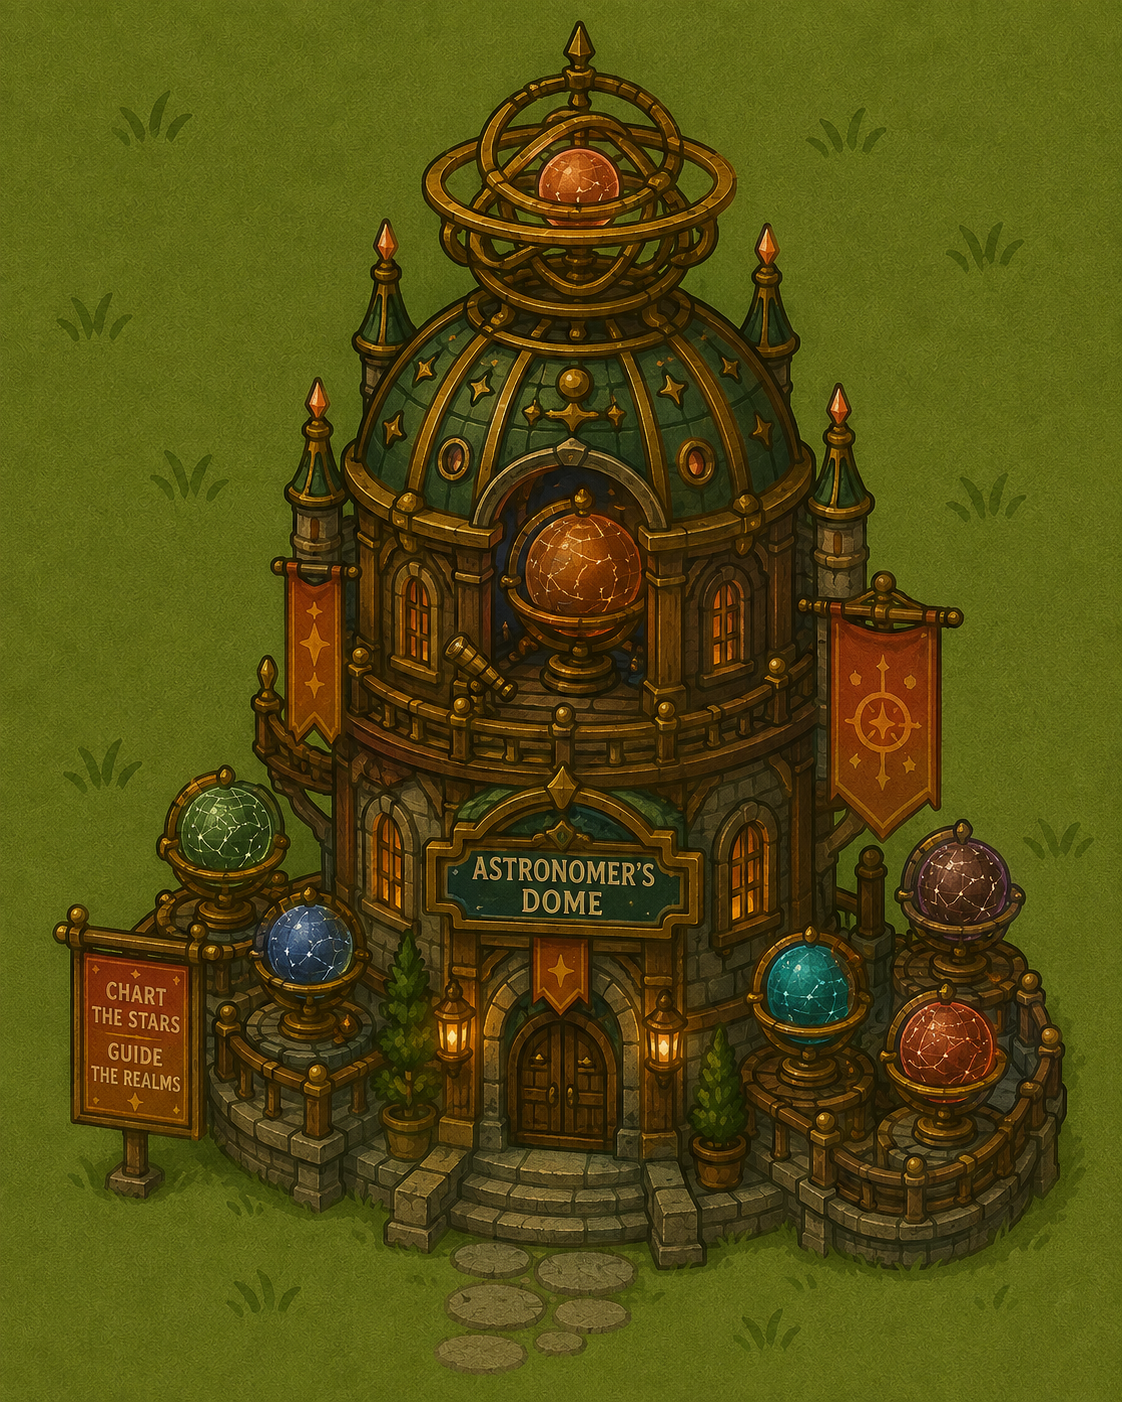
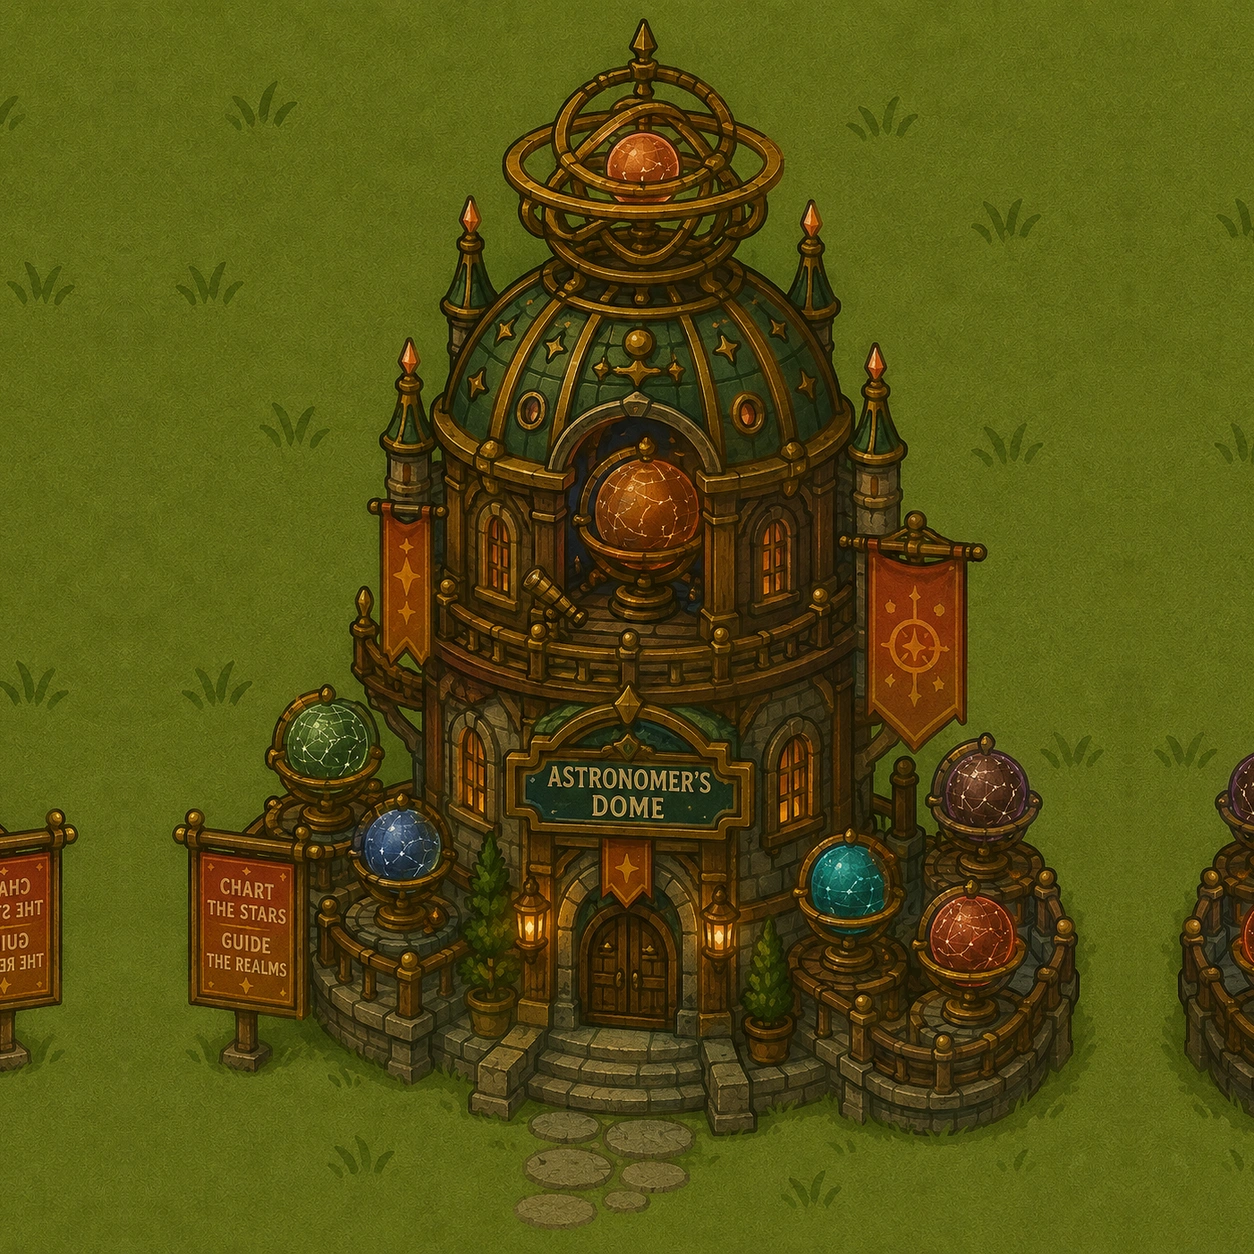
fix: convert portrait property tile images to 1:1 square webp and use object-cover rendering

diff --git a/components/kingdom-grid.tsx b/components/kingdom-grid.tsx
@@ -293,7 +293,7 @@ export function KingdomGrid({ grid, onTilePlace, selectedTile, setSelectedTile, 
                       src={tile.image || `/images/kingdom-tiles/${tile.type}.webp`}
                       alt={tile.type}
                       fill
-                      className="object-contain"
+                      className="object-cover"
                       sizes="48px"
                     />
                   </div>

diff --git a/components/KingdomTileItem.tsx b/components/KingdomTileItem.tsx
@@ -121,7 +121,7 @@ export const KingdomTileItem = React.memo(({
             alt={tile.name || tile.type}
             fill
             sizes="(max-width: 768px) 10vw, 5vw"
-            className="object-contain transition-transform duration-500 group-hover:scale-110"
+            className="object-cover transition-transform duration-500 group-hover:scale-110"
             unoptimized={true}
           />
         )}
